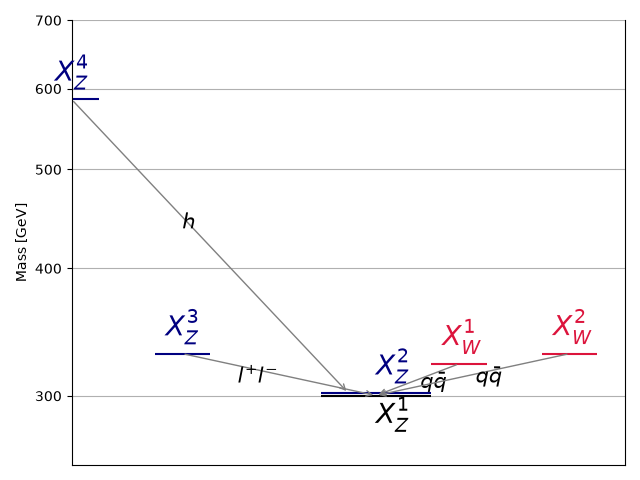
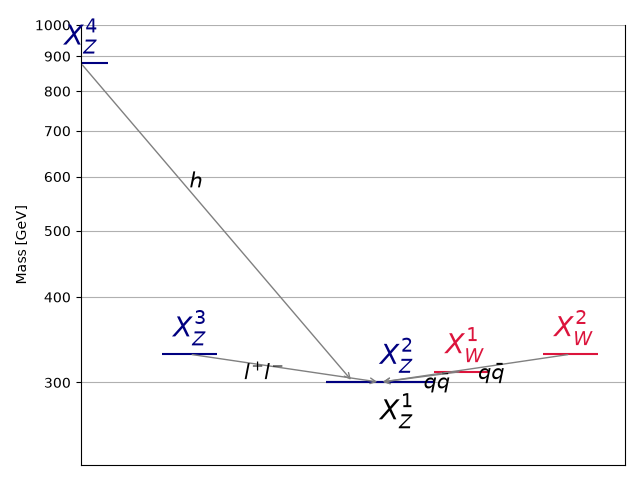
automated update by plotHiscore.py to combined_320:     K=6.580 TL=13.13 walkerid=806

diff --git a/protomodels/combined_320/index.html b/protomodels/combined_320/index.html
@@ -1,27 +1,27 @@
 <html>
 <body>
 <center>
-<table><td><h1>Current best protomodel: <i>K</i>=6.36, <i>TL</i>=13.13</h1><td><img height=60px src=https://smodels.github.io//protomodels/logos/protomodel_lego.png></table>
+<table><td><h1>Current best protomodel: <i>K</i>=6.58, <i>TL</i>=13.13</h1><td><img height=60px src=https://smodels.github.io//protomodels/logos/protomodel_lego.png></table>
 </center>
-<b><a href=./hiscore.slha>ProtoModel</a> <a href=./pmodel.dict>(dict)</a> produced with <a href=https://smodels.github.io//docs/Validation320>database v3.2.0</a>, allowed_extr 0.0 in walker 814 step 706.</b> <br>
+<b><a href=./hiscore.slha>ProtoModel</a> <a href=./pmodel.dict>(dict)</a> produced with <a href=https://smodels.github.io//docs/Validation320>database v3.2.0</a>, allowed_extr 0.0 in walker 806 step 765.</b> <br>
 <table width=80%>
 <tr><td>
 <br><b>Critics:</b> passed both critics<br>
 <br><b>UL Critic: 1/2 analyses exclude</b><br>
-ATLAS-EXOT-2018-06:EM12:: <span style='color: darkred;'>r<sub>obs</sub>=1.831, r<sub>exp</sub>=1.528</span><br>
-CMS-SUS-23-003:ul:: <span style='color: darkgreen;'>r<sub>obs</sub>=1.151, r<sub>exp</sub>=1.637</span><br>
-CMS-EXO-20-004:SR_2018_22:: <span style='color: darkgreen;'>r<sub>obs</sub>=0.258, r<sub>exp</sub>=0.414</span><br>
-<br><b>LLHD Critic:</b> ATLAS-EXOT-2018-06:EM12, CMS-EXO-20-004:matrix.cov, CMS-SUS-18-004-wbplus-agg:matrix_agg_all.cov, CMS-SUS-16-048:matrix.cov:: <span style='color: darkred;'>r<sub>obs</sub>=1.15, r<sub>exp</sub>=2.0</span><br>
+ATLAS-EXOT-2018-06:EM12:: <span style='color: darkred;'>r<sub>obs</sub>=1.819, r<sub>exp</sub>=1.518</span><br>
+CMS-SUS-23-003:ul:: <span style='color: darkgreen;'>r<sub>obs</sub>=1.143, r<sub>exp</sub>=1.627</span><br>
+CMS-EXO-20-004:SR_2018_22:: <span style='color: darkgreen;'>r<sub>obs</sub>=0.255, r<sub>exp</sub>=0.409</span><br>
+<br><b>LLHD Critic:</b> ATLAS-EXOT-2018-06:EM12, CMS-EXO-20-004:matrix.cov, CMS-SUS-18-004-wbplus-agg:matrix_agg_all.cov, CMS-SUS-16-048:matrix.cov:: <span style='color: darkred;'>r<sub>obs</sub>=1.14, r<sub>exp</sub>=1.99</span><br>
 </ul>
-<td><img width=600px src=./texdoc.png?1793122750>
-<br><span style='font-size: smaller; color: darkred;'>Last updated: Tue Oct 27 18:39:10 2026</span>
+<td><img width=600px src=./texdoc.png?1793173473>
+<br><span style='font-size: smaller; color: darkred;'>Last updated: Wed Oct 28 08:44:33 2026</span>
 <br><br><b>5 predictions available. Highest r values are:</b><br><ul>
-<li><a href=https://atlas.web.cern.ch/Atlas/GROUPS/PHYSICS/PAPERS/EXOT-2018-06/>ATLAS-EXOT-2018-06</a>:EM12:TChiISR r=1.83, r<sub>exp</sub>=1.53<br>
-<li><a href=https://cms-results.web.cern.ch/cms-results/public-results/publications/SUS-23-003/index.html>CMS-SUS-23-003</a>:ul:TChiWZoff r=1.15, r<sub>exp</sub>=1.64<br>
-<li><a href=http://cms-results.web.cern.ch/cms-results/public-results/publications/EXO-20-004/>CMS-EXO-20-004</a>:SR_2018_22:TChiISR r=0.26, r<sub>exp</sub>=0.41<br>
+<li><a href=https://atlas.web.cern.ch/Atlas/GROUPS/PHYSICS/PAPERS/EXOT-2018-06/>ATLAS-EXOT-2018-06</a>:EM12:TChiISR r=1.82, r<sub>exp</sub>=1.52<br>
+<li><a href=https://cms-results.web.cern.ch/cms-results/public-results/publications/SUS-23-003/index.html>CMS-SUS-23-003</a>:ul:TChiWZoff r=1.14, r<sub>exp</sub>=1.63<br>
+<li><a href=http://cms-results.web.cern.ch/cms-results/public-results/publications/EXO-20-004/>CMS-EXO-20-004</a>:SR_2018_22:TChiISR r=0.25, r<sub>exp</sub>=0.41<br>
 <li><a href=http://cms-results.web.cern.ch/cms-results/public-results/publications/SUS-18-004/index.html>CMS-SUS-18-004-wbplus-agg</a>:2los_sr_ultra_3:TChiWZoff r=0.14, r<sub>exp</sub>=0.17<br>
 </table><table style="width:80%">
-<td width=40%><img height=450px src=./mass_hierarchy.png?1793122750><td width=60%><font size=-3><iframe type="text/html" height="350px" width="100%" frameborder="0" src="./rawnumbers.html?1793122750"></iframe></font>
+<td width=40%><img height=450px src=./mass_hierarchy.png?1793173473><td width=60%><font size=-3><iframe type="text/html" height="350px" width="100%" frameborder="0" src="./rawnumbers.html?1793173473"></iframe></font>
 </table>
 </body>
 </html>
